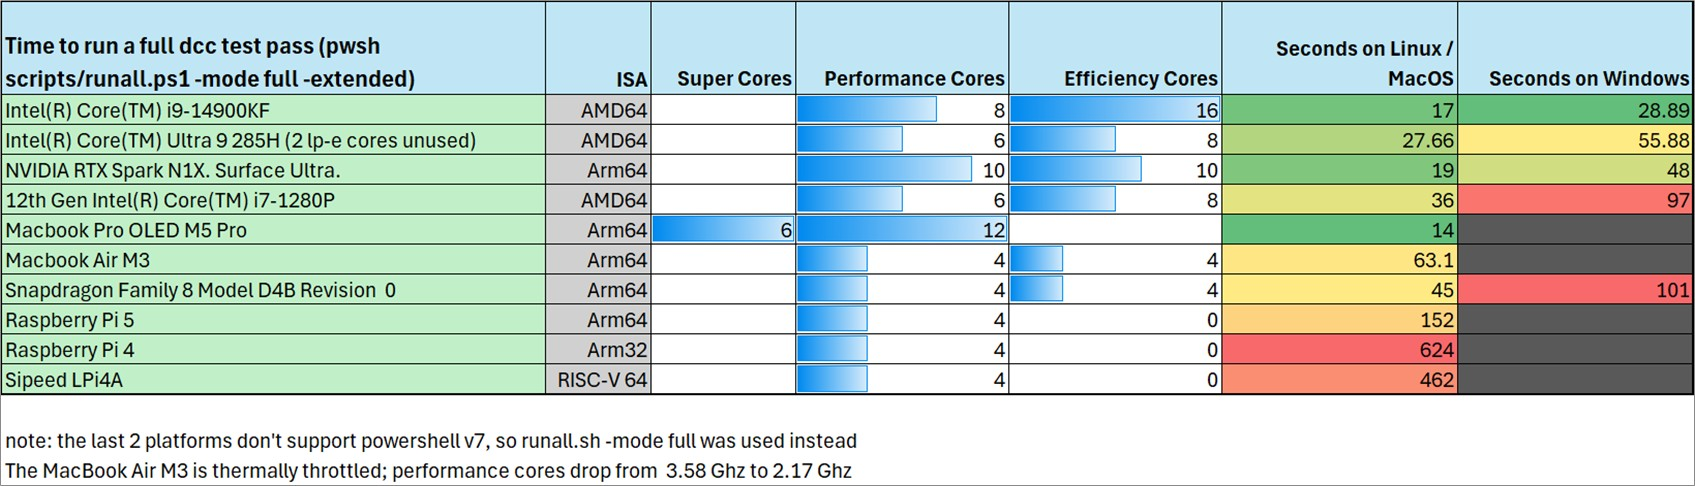
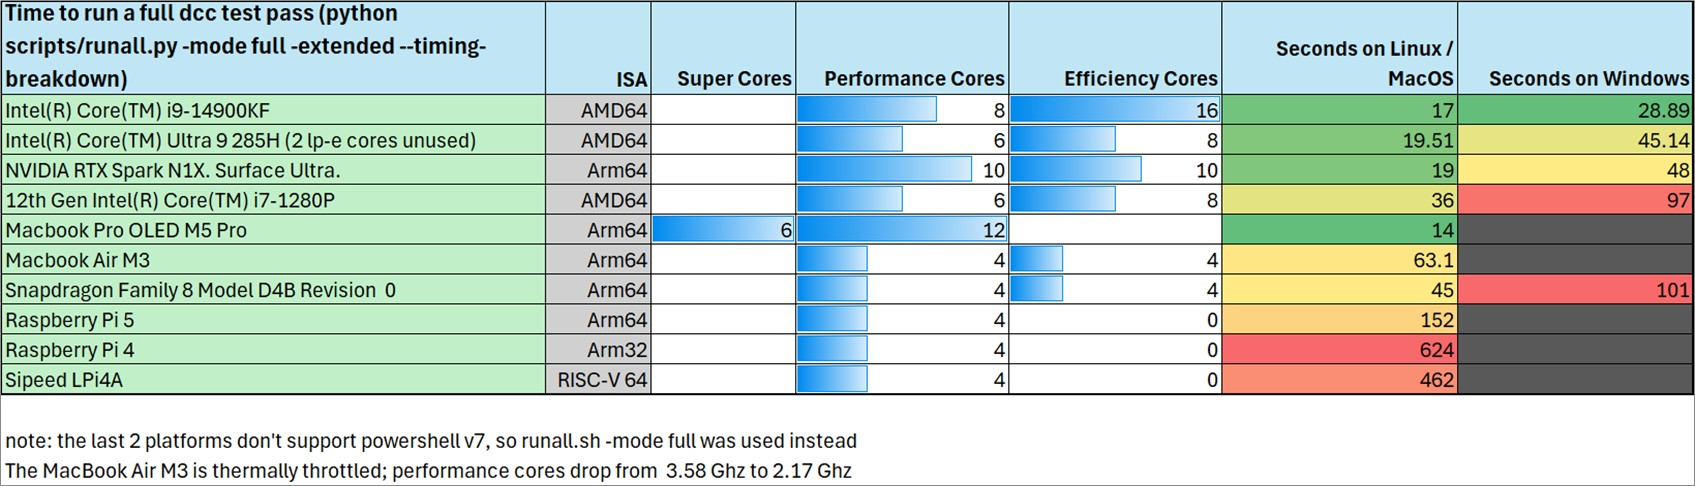
Record Python suite timings and enable Windows console colors

Changed region(s): [[0.0, 0.0, 0.3068, 0.1852], [0.7056, 0.2469, 1.0, 0.4012]]

diff --git a/scripts/runall.py b/scripts/runall.py
@@ -32,6 +32,34 @@ CYCLE_COUNT = re.compile(r"(?m)^\s*Z80\s+cycles:\s*([\d,]+)")
 COMMANDS: dict[str, str] = {}
 
 
+def colour_enabled(mode: str) -> bool:
+    """Enable Windows console ANSI processing before auto-detecting colours."""
+    if mode == "never":
+        return False
+    if not sys.stdout.isatty():
+        return mode == "always"
+    if os.name == "nt":
+        try:
+            import ctypes
+            import msvcrt
+            from ctypes import wintypes
+
+            kernel32 = ctypes.WinDLL("kernel32", use_last_error=True)
+            kernel32.GetConsoleMode.argtypes = (wintypes.HANDLE, ctypes.POINTER(wintypes.DWORD))
+            kernel32.GetConsoleMode.restype = wintypes.BOOL
+            kernel32.SetConsoleMode.argtypes = (wintypes.HANDLE, wintypes.DWORD)
+            kernel32.SetConsoleMode.restype = wintypes.BOOL
+            handle = msvcrt.get_osfhandle(sys.stdout.fileno())
+            console_mode = wintypes.DWORD()
+            # Preserve existing flags; ENABLE_VIRTUAL_TERMINAL_PROCESSING = 4.
+            if not kernel32.GetConsoleMode(handle, ctypes.byref(console_mode)):
+                return mode == "always"
+            if not kernel32.SetConsoleMode(handle, console_mode.value | 4):
+                return mode == "always"
+        except (AttributeError, ImportError, OSError, ValueError):
+            return mode == "always"
+    return True
+
 def out(text="", colour=None):
     """PowerShell-like Write-Host colours, while keeping redirected logs plain."""
     if COLOUR and colour:
@@ -673,7 +701,7 @@ def main():
                         help="ANSI colour mode (default: auto)")
     args = parser.parse_args()
     global COLOUR
-    COLOUR = args.color == "always" or (args.color == "auto" and sys.stdout.isatty())
+    COLOUR = colour_enabled(args.color)
     args.failures_only = not args.verbose
     if args.timeout < 0:
         parser.error("--timeout must be zero (no timeout) or a positive integer")
